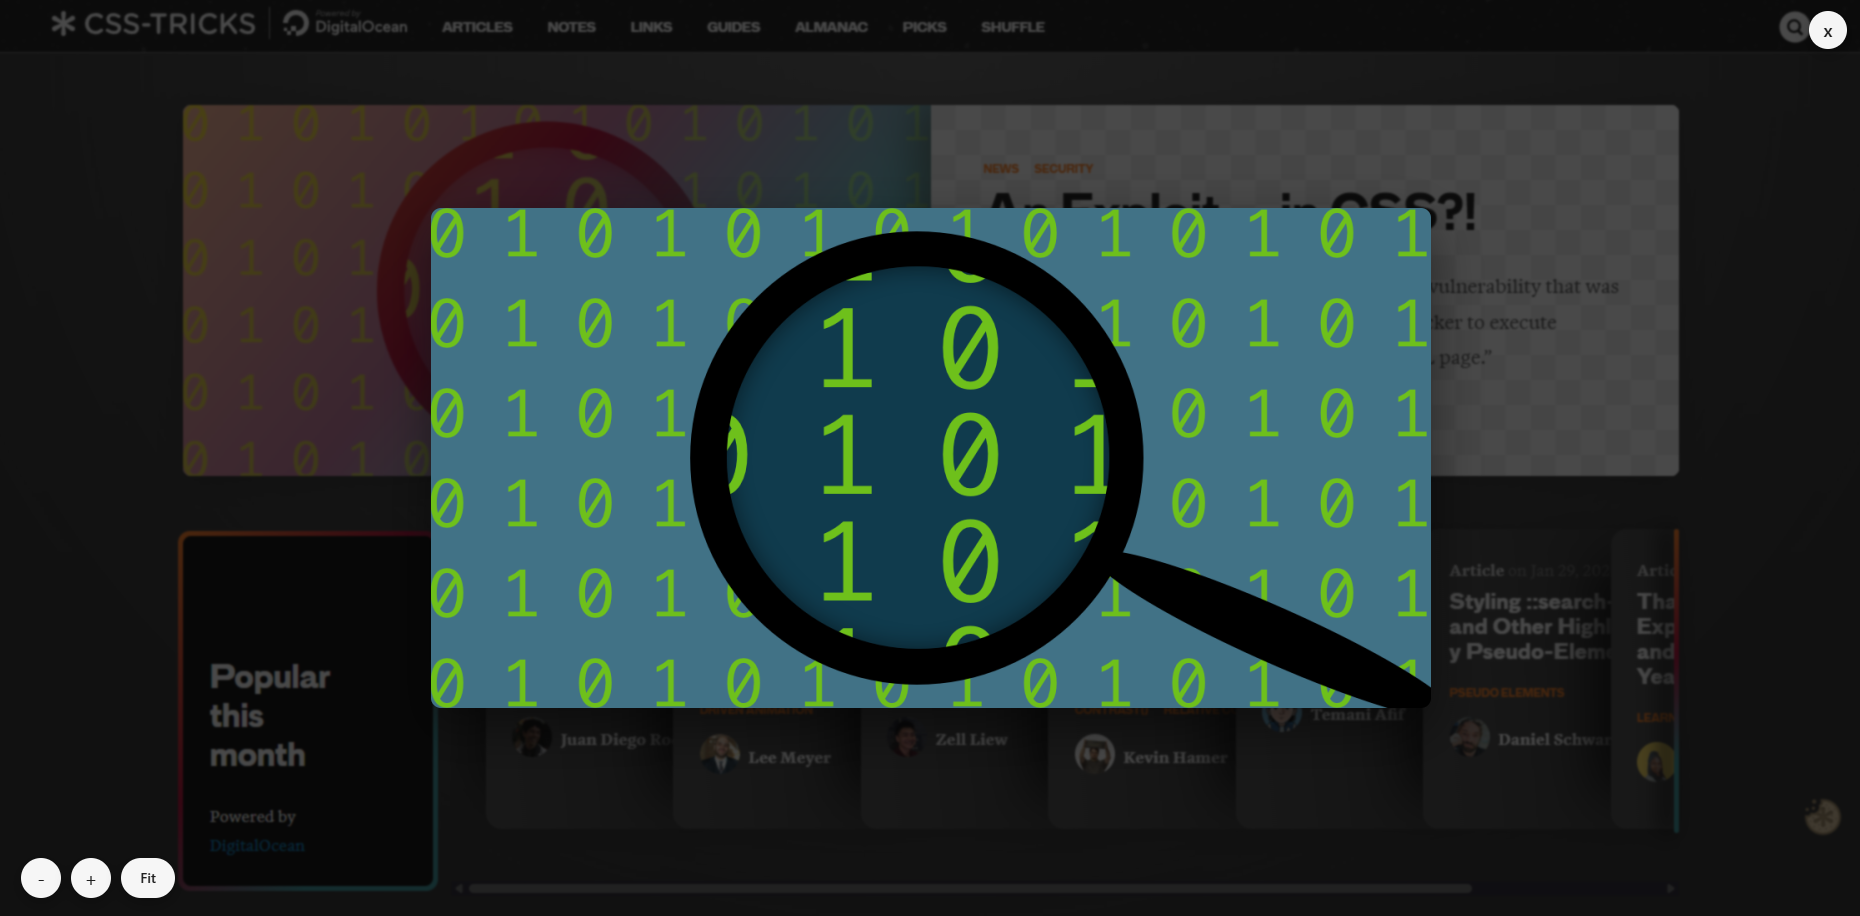
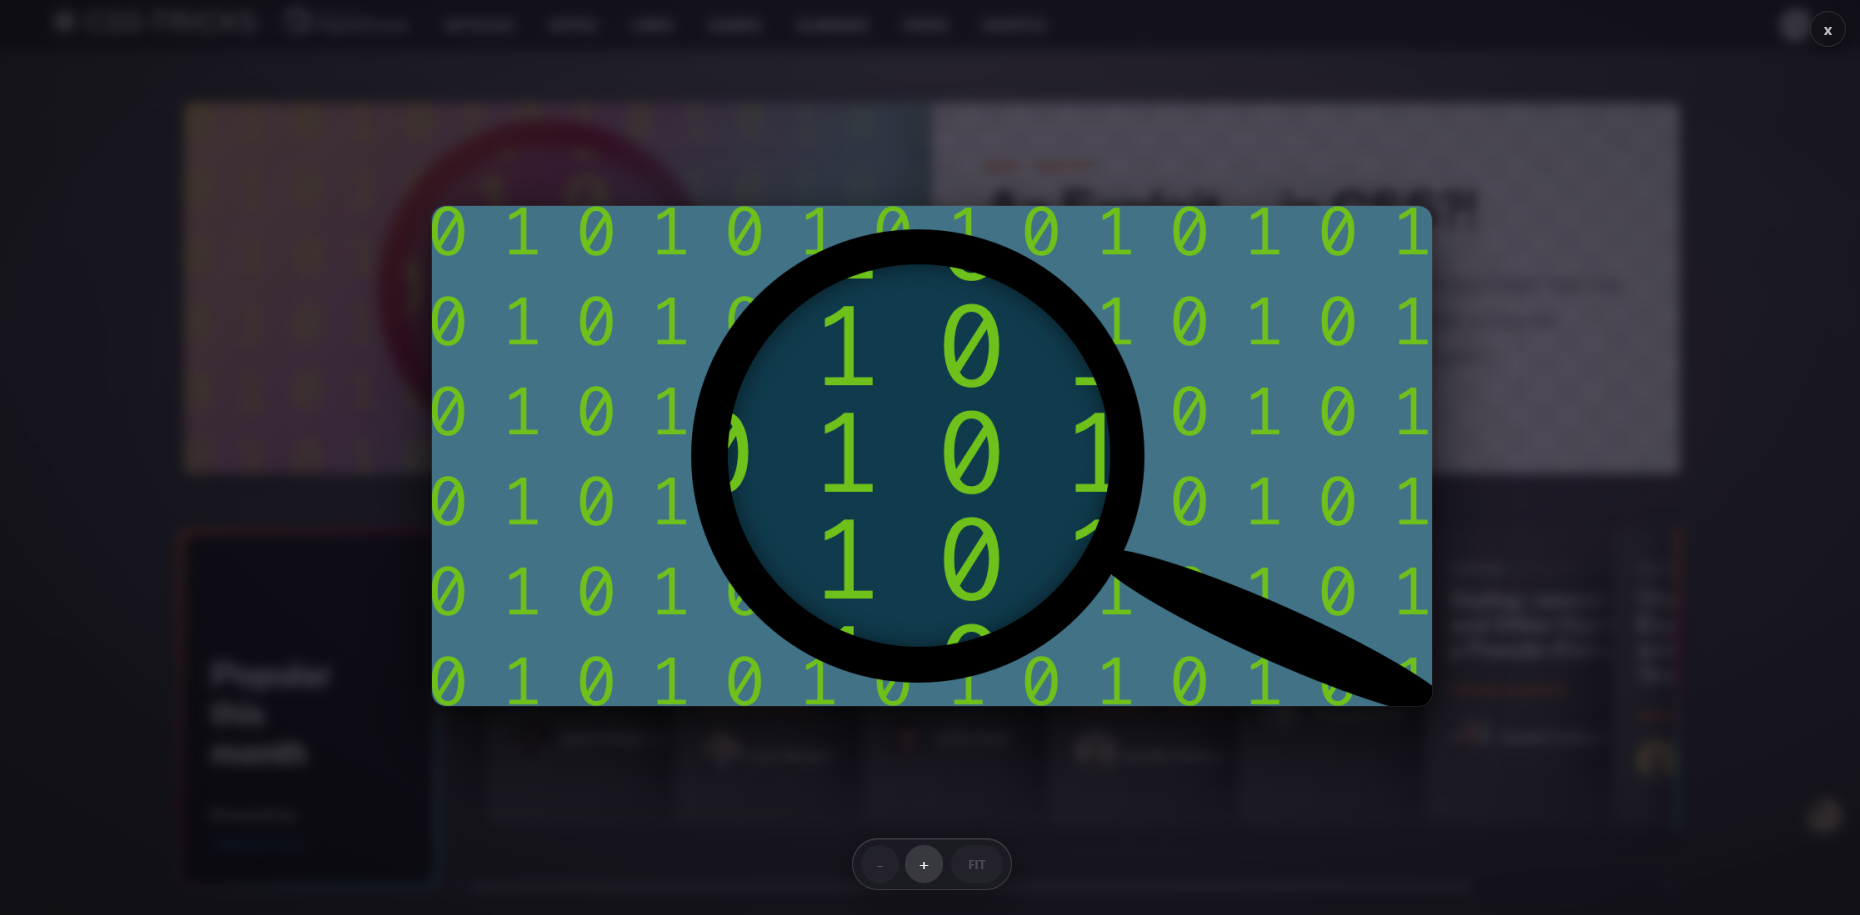
Update controls styling

diff --git a/content.css b/content.css
@@ -7,16 +7,22 @@
   position: fixed;
   inset: 0;
   isolation: isolate;
-  font-family: 'Segoe UI', Tahoma, Geneva, Verdana, sans-serif;
+  font-family: 'DM Sans', 'Segoe UI', system-ui, sans-serif;
 }
 
+/* ── Backdrop ─────────────────────────────────────────── */
 .iz-backdrop {
   position: absolute;
   inset: 0;
-  background: rgba(10, 10, 10, 0.7);
-  backdrop-filter: blur(1px);
+  background: radial-gradient(
+    ellipse at 60% 40%,
+    rgba(30, 24, 42, 0.75) 0%,
+    rgba(10, 10, 16, 0.82) 100%
+  );
+  backdrop-filter: blur(6px) saturate(0.85);
+  -webkit-backdrop-filter: blur(6px) saturate(0.85);
   opacity: 0;
-  transition: opacity 150ms ease;
+  transition: opacity 220ms cubic-bezier(0.22, 1, 0.36, 1);
   z-index: 0;
 }
 
@@ -30,6 +36,7 @@
   box-shadow: none !important;
 }
 
+/* ── Stage & Shell ────────────────────────────────────── */
 .iz-stage {
   position: absolute;
   inset: 0;
@@ -43,10 +50,13 @@
   top: 50%;
   transform: translate(-50%, -50%);
   transform-origin: center center;
-  border-radius: 10px;
+  border-radius: 14px;
   overflow: hidden;
-  box-shadow: 0 20px 50px rgba(0, 0, 0, 0.45);
-  background: #101010;
+  box-shadow:
+    0 0 0 1px rgba(255, 255, 255, 0.06),
+    0 30px 80px rgba(0, 0, 0, 0.65),
+    0 8px 24px rgba(0, 0, 0, 0.4);
+  background: #0d0d0f;
   will-change: transform;
 }
 
@@ -60,19 +70,36 @@
   -webkit-user-drag: none;
 }
 
+/* ── Toolbar ──────────────────────────────────────────── */
 .iz-toolbar {
   position: absolute;
-  left: 22px;
-  bottom: 22px;
+  left: 50%;
+  bottom: 28px;
+  transform: translateX(-50%);
   display: flex;
   align-items: center;
-  gap: 10px;
+  gap: 6px;
   z-index: 3;
+  padding: 6px 8px;
+  background: rgba(28, 28, 34, 0.78);
+  backdrop-filter: blur(16px) saturate(1.4);
+  -webkit-backdrop-filter: blur(16px) saturate(1.4);
+  border-radius: 999px;
+  border: 1px solid rgba(255, 255, 255, 0.13);
+  box-shadow:
+    0 8px 32px rgba(0, 0, 0, 0.35),
+    0 1px 0 rgba(255, 255, 255, 0.07) inset;
   opacity: 1 !important;
   filter: none !important;
   mix-blend-mode: normal !important;
 }
 
+/* Subtle divider between zoom controls and reset */
+.iz-toolbar > .iz-reset {
+  margin-left: 2px;
+}
+
+/* ── Buttons ──────────────────────────────────────────── */
 .iz-btn {
   all: unset;
   box-sizing: border-box;
@@ -83,62 +110,89 @@
   appearance: none;
   border: 0;
   border-radius: 999px;
-  width: 40px;
-  height: 40px;
-  background: rgba(255, 255, 255, 0.96);
-  color: #1f1f1f;
-  font-size: 19px;
+  width: 38px;
+  height: 38px;
+  background: rgba(255, 255, 255, 0.13);
+  color: rgba(255, 255, 255, 0.92);
+  font-size: 17px;
   line-height: 1;
   cursor: pointer;
-  box-shadow: 0 5px 16px rgba(0, 0, 0, 0.25);
   transition:
-    transform 120ms ease,
-    box-shadow 120ms ease,
-    opacity 120ms ease;
+    background 150ms ease,
+    color 150ms ease,
+    transform 150ms cubic-bezier(0.34, 1.56, 0.64, 1),
+    box-shadow 150ms ease;
   opacity: 1 !important;
   filter: none !important;
   mix-blend-mode: normal !important;
 }
 
 .iz-btn:hover:not(:disabled) {
-  transform: translateY(-1px);
-  box-shadow: 0 7px 18px rgba(0, 0, 0, 0.3);
+  background: rgba(255, 255, 255, 0.22);
+  color: #fff;
+  transform: scale(1.1);
 }
 
 .iz-btn:active:not(:disabled) {
-  transform: translateY(0);
+  transform: scale(0.94);
+  background: rgba(255, 255, 255, 0.1);
 }
 
 .iz-btn:disabled {
   cursor: default;
-  opacity: 0.45;
+  opacity: 0.28 !important;
 }
 
+/* ── Reset button ─────────────────────────────────────── */
 .iz-reset {
   width: auto;
-  min-width: 54px;
-  padding: 0 12px;
-  font-size: 14px;
+  min-width: 52px;
+  padding: 0 14px;
+  font-size: 12px;
   font-weight: 600;
+  letter-spacing: 0.04em;
+  text-transform: uppercase;
+  color: rgba(255, 255, 255, 0.75);
+  border-radius: 999px;
 }
 
+.iz-reset:hover:not(:disabled) {
+  color: #fff;
+  background: rgba(255, 255, 255, 0.12);
+}
+
+/* ── Close button ─────────────────────────────────────── */
 .iz-close {
   position: absolute;
-  top: 16px;
-  right: 16px;
-  width: 38px;
-  height: 38px;
-  font-size: 18px;
-  font-weight: 600;
+  top: 18px;
+  right: 18px;
+  width: 36px;
+  height: 36px;
+  font-size: 16px;
+  font-weight: 500;
   z-index: 3;
+  background: rgba(18, 18, 22, 0.68);
+  backdrop-filter: blur(12px);
+  -webkit-backdrop-filter: blur(12px);
+  border: 1px solid rgba(255, 255, 255, 0.1);
+  color: rgba(255, 255, 255, 0.75);
+  box-shadow: 0 4px 16px rgba(0, 0, 0, 0.3);
   opacity: 1 !important;
   filter: none !important;
   mix-blend-mode: normal !important;
 }
 
+.iz-close:hover:not(:disabled) {
+  color: #fff;
+  background: rgba(255, 255, 255, 0.14);
+  transform: scale(1.08);
+}
+
+/* ── Reduced motion ───────────────────────────────────── */
 @media (prefers-reduced-motion: reduce) {
   .iz-backdrop,
-  .iz-btn {
+  .iz-btn,
+  .iz-close {
     transition: none;
   }
 }
